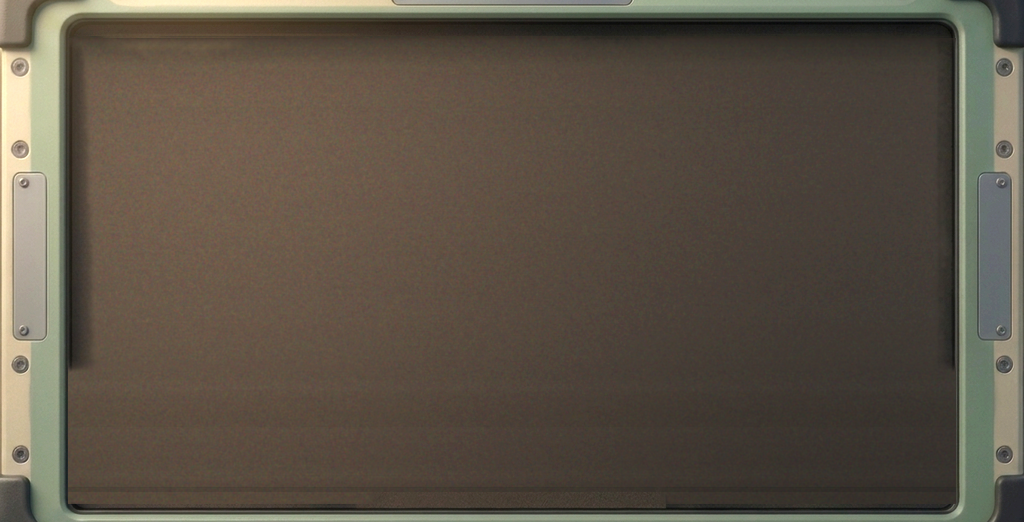
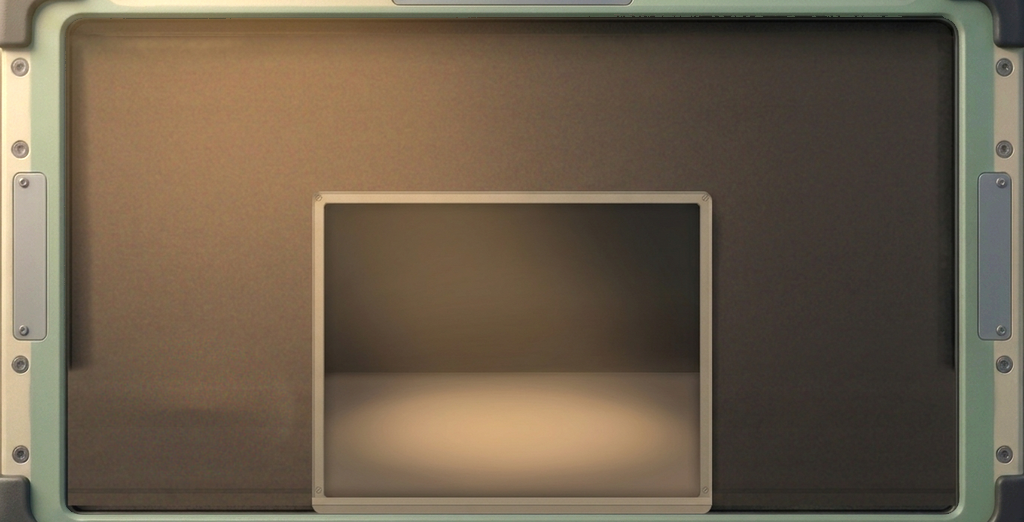
Pods masters: fix 5 Create CA1, the stage and tray relit (one Pro edit, cut by hand), C12 measured

diff --git a/art/station-masters/pods/create-relight/cut-relight.py b/art/station-masters/pods/create-relight/cut-relight.py
@@ -1,0 +1,41 @@
+"""Fix 5 Create CA1 + CA3, the cut of the studio edit (source/raw/ca1-create-relight.jpg, 1 Pro request, 3.71 MXN) back to the
+signed ids, by hand: the edit is reduced by area to the 1024x576 input frame; everything outside the bench's dark interior (the
+housing, frame, screws, handles) is the signed stage pixel for pixel; the painted dish is moved 62 px up and 32 px left so its centre sits under
+the pod's feet (axis 160, feet 408 on screen), its old place refilled from the edit's own wall light (a normalised blur with the
+dish masked out, plus the wall grain); the tray is cut out as chamber-back-400x320 with the signed alpha.
+By default the dish is taken out (its hand move left seams at 1x); --keep-dish pastes it moved.
+usage: cut-relight.py SLICES_DIR EDIT.jpg OUT_DIR [--keep-dish]"""
+import sys, os, numpy as np
+from PIL import Image
+from scipy import ndimage as nd
+sl, ed, out = sys.argv[1:4]; os.makedirs(out, exist_ok=True)
+E = np.asarray(Image.open(ed).convert('RGB').resize((1024, 576), Image.LANCZOS)).astype(float)
+st = np.asarray(Image.open(os.path.join(sl, 'room-bench-stage-create.png')).convert('RGBA')).astype(float)
+cb = np.asarray(Image.open(os.path.join(sl, 'chamber-back-400x320.png')).convert('RGBA')).astype(float)
+H, W = 522, 1024; yy, xx = np.mgrid[0:H, 0:W].astype(float)
+lum = st[..., :3] @ [.2126, .7152, .0722]
+lab, n = nd.label(lum < 80); sz = nd.sum(np.ones_like(lum), lab, range(1, n + 1)); inner = nd.binary_fill_holes(lab == (np.argmax(sz) + 1))
+tray = np.zeros((H, W), bool); tray[192:512, 312:712] = True
+paint = inner | tray
+new = st.copy(); new[..., :3] = np.where(paint[..., None], E[:H], st[..., :3])
+# the dish: an ellipse in the edit, centre (192, 408), half-axes 92 x 66 incl. its soft shadow
+CX, CY, RX, RY, DY, DX = 192, 408, 92, 66, -62, -32
+d = np.sqrt(((xx - CX) / RX) ** 2 + ((yy - CY) / RY) ** 2); dm = d <= 1.0
+soft = np.clip((1.0 - d) / 0.12, 0, 1)
+dish = E[:H].copy()
+known = ~nd.binary_dilation(dm, iterations=10) & inner
+# refill: the signed stage's own paint there (its horizon line and grain), relit by the edit's light (the ratio of the two,
+# smoothed, with the dish masked out)
+def nb(img): return nd.gaussian_filter(np.where(known[..., None], img, 0), (18, 18, 0)) / np.maximum(nd.gaussian_filter(known.astype(float), 18)[..., None], 1e-6)
+gain = nb(E[:H]) / np.maximum(nb(st[..., :3]), 1)
+hole = nd.binary_dilation(dm, iterations=10) & inner
+hs = nd.gaussian_filter(hole.astype(float), 3)[..., None] * inner[..., None]
+new[..., :3] = new[..., :3] * (1 - hs) + st[..., :3] * gain * hs
+# paste the dish shifted up
+src = np.roll(np.roll(dish, DY, axis=0), DX, axis=1); sm = np.roll(np.roll(soft, DY, axis=0), DX, axis=1)[..., None]
+if '--keep-dish' in sys.argv: new[..., :3] = new[..., :3] * (1 - sm) + src * sm
+new[..., :3] = np.clip(np.round(new[..., :3]), 0, 255)
+Image.fromarray(new.astype(np.uint8), 'RGBA').save(os.path.join(out, 'room-bench-stage-create.png'))
+c = cb.copy(); c[..., :3] = new[192:512, 312:712, :3]
+Image.fromarray(c.astype(np.uint8), 'RGBA').save(os.path.join(out, 'chamber-back-400x320.png'))
+print('outside interior changed', int(((np.abs(new - st).sum(-1) > 0) & ~paint).sum()))

diff --git a/art/station-masters/pods/create-relight/README.md b/art/station-masters/pods/create-relight/README.md
@@ -9,3 +9,13 @@ What fails, measured on the composed screen (`proof/hand-attempt-1x.png`):
 - **The key light** on the dark bench wall is a gradient too weak to read at 1×. Raising it turns it into a vignette.
 
 **Verdict:** CA1 needs a painted relight, the spec's studio edit (≤ 8 MXN, on the programme lead's go). The hand floor plane is kept here as the edit's guide for the floor line and the pool's place.
+
+## Delivered: the studio edit, cut by hand (10-15)
+- **Source:** one Pro edit, `source/raw/ca1-create-relight.jpg` (job `source/work/ca1-create-relight.json`). 3.71 MXN on the programme lead's go; no retry.
+- **Cut:** `cut-relight.py` writes `room-bench-stage-create` and `chamber-back-400x320` under their ids and rects.
+  - The housing outside the bench's interior is the signed stage, pixel for pixel (0 px changed).
+  - The edit's dish (CA3) is taken out: it came 40 px under the pod's feet, in a new glossy metal. Its place is refilled with the signed paint relit by the edit's light.
+- **C12, measured on the composed screen:**
+  - the tray's pool is the brightest 224×52 bench window at 0.379, against 0.293 for the best elsewhere;
+  - the founder's p95 is 0.680, the highest of any stage object.
+- **Proof:** `proof/relit-1x.png`.
